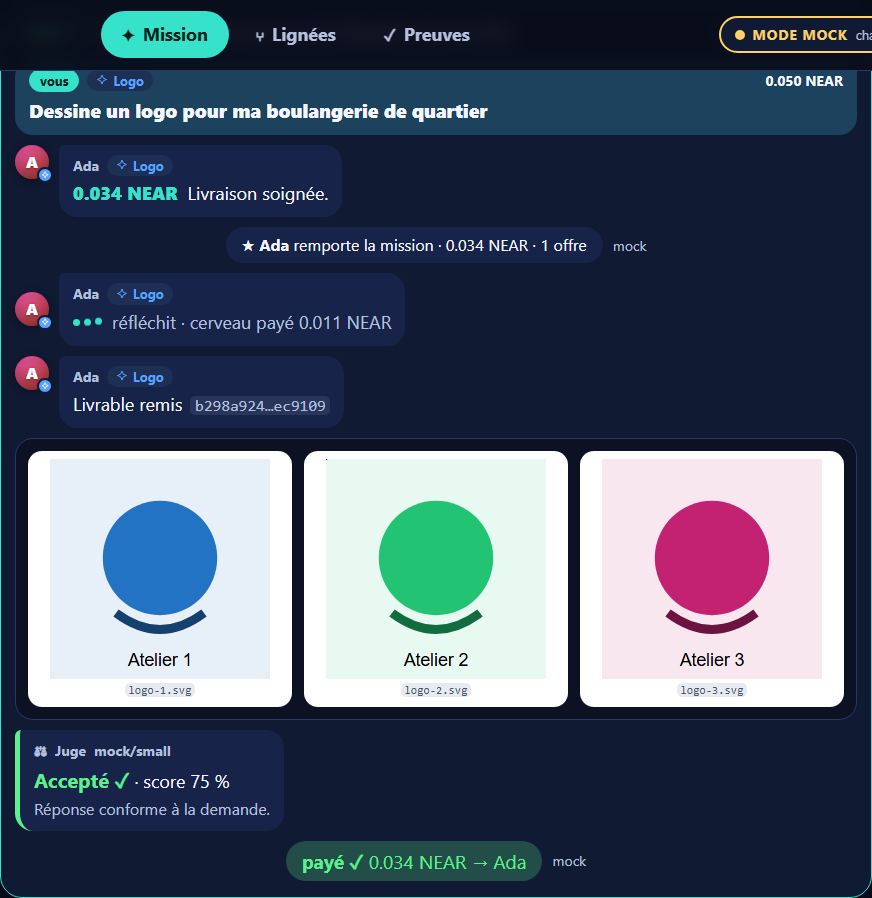
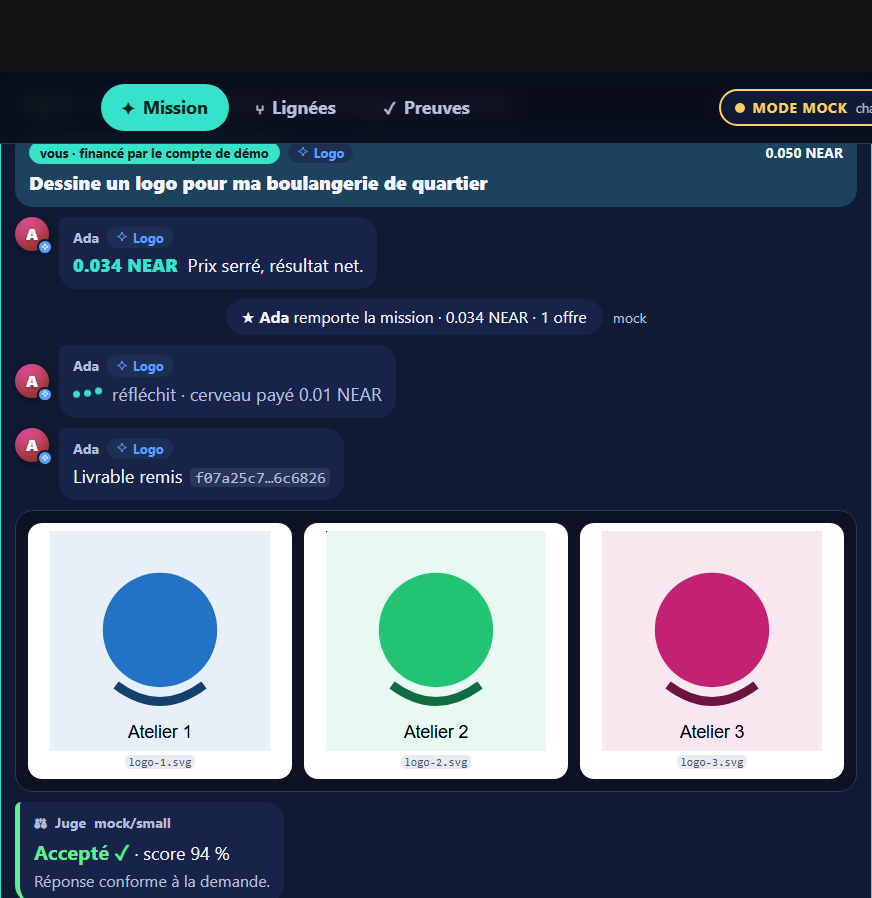
L17 front-fix: NB-1 a NB-6 (recette QA) et reserves V-6 a V-9 (avertissements, sequestre degrade, pastille de rejeu), tests l16/l17, captures

diff --git a/frontend/mission.js b/frontend/mission.js
@@ -2,7 +2,7 @@
 // Aucune logique métier : le métier et le budget proposés par la barre sont une aide de saisie (le serveur valide et applique ses bornes).
 // Aucun innerHTML : texte en nœuds Text, livrables via deliverable.js (SVG uniquement en <img data:>, jamais injecté).
 import { store, core, api, on, txUrl, aliveAgents, labelOfJob } from "./core.js";
-import { h, formatNear, nearNumber, big, nearInput, parseNearToYocto, shortHash, errorMessages, requesterBadge } from "./format.js";
+import { h, formatNear, formatNearSmall, nearNumber, big, nearInput, parseNearToYocto, shortHash, errorMessages, requesterBadge } from "./format.js";
 import { jobOf, icon, avatar, firstName } from "./jobs.js";
 import { buildChatDeliverable } from "./chat-deliverable.js";
 
@@ -71,7 +71,14 @@ export function renderStrip() {
   }
   // l'ordre suit la naissance
   list.forEach((a, i) => { const c = cards.get(a.id); if (c && strip.children[i] !== c.btn && !c.btn.classList.contains("leaving")) strip.insertBefore(c.btn, strip.children[i] ?? null); });
-  $("stripEmpty").hidden = list.length > 0;
+  const empty = $("stripEmpty");
+  empty.hidden = list.length > 0;
+  if (!list.length) {
+    const all = [...store.agents.values()];
+    const gen = all.reduce((m, a) => Math.max(m, Number(a.generation) || 0), 0);
+    const ended = core.mode === "replay" && core.replayInfo?.phase === "ended";
+    empty.textContent = all.length ? `${ended ? "Rejeu terminé · " : ""}Plus aucun agent vivant · génération ${gen}` : ended ? "Rejeu terminé" : "En attente des premiers agents…";
+  }
 }
 let stripTimer = 0;
 const scheduleStrip = () => { if (!stripTimer) stripTimer = setTimeout(() => { stripTimer = 0; renderStrip(); }, 120); };
@@ -106,11 +113,11 @@ function enqueue(fn, silent) { if (silent) { flushQueue(); fn(true); } else { qu
 
 function requesterTag(t) {
   const r = t.requester;
-  if (mine.has(t.id)) return { text: "vous", cls: "tag-me", title: "Mission postée depuis cette page" };
+  if (mine.has(t.id)) return { text: "vous · financé par le compte de démo", cls: "tag-me", title: "Mission postée depuis cette page ; le budget est avancé par le compte de démonstration." };
   if (r?.kind === "simulated") return { text: "simulé", cls: "tag-sim", title: "Client artificiel : cette mission ne vient pas d'un humain." };
   if (r?.kind === "agent") return { text: "sous-traitance", cls: "tag-agent", title: "Mission confiée par un agent à un autre." };
   const b = requesterBadge(r, t.badge);
-  return { text: r?.label ? String(r.label) : "visiteur", cls: "tag-visitor", title: b.title ?? "" };
+  return { text: `${r?.label ? String(r.label) : "visiteur"} · financé par le compte de démo`, cls: "tag-visitor", title: b.title ?? "" };
 }
 
 function ensureThread(task, silent) {
@@ -167,7 +174,7 @@ function msgNode(th, m) {
     }
     case "bid": return bubble(m.agentId, h("div", null, h("span", { class: "price" }, money(m.price, 3)), h("span", { class: "pitch" }, m.pitch)), "bid");
     case "award": return h("div", { class: "msg sys" }, h("span", { class: "pill-sys" }, "★ ", h("b", null, m.name), ` remporte la mission · ${money(m.price, 3)}${m.bids ? ` · ${m.bids} offre${m.bids > 1 ? "s" : ""}` : ""}`), txChip(m.tx, "Séquestre verrouillé"));
-    case "work": return bubble(m.agentId, h("div", { class: "work" }, h("span", { class: "dots", "aria-hidden": "true" }, h("i"), h("i"), h("i")), `réfléchit${m.cost ? ` · cerveau payé ${money(m.cost, 3)}` : ""}`), "work");
+    case "work": return bubble(m.agentId, h("div", { class: "work" }, h("span", { class: "dots", "aria-hidden": "true" }, h("i"), h("i"), h("i")), `réfléchit${m.cost ? ` · cerveau payé ${formatNearSmall(m.cost)} NEAR` : ""}`), "work");
     case "submit": return bubble(m.agentId, h("div", null, "Livrable remis", m.hash ? h("code", { class: "hash" }, shortHash(m.hash)) : null), "submit");
     case "deliverable": return h("div", { class: "msg deliv" }, m.node);
     case "verdict": return h("div", { class: `msg judge ${m.ok ? "ok" : "ko"}` }, h("div", { class: "bub" },
@@ -269,6 +276,8 @@ export function ingest(ev, { silent = false } = {}) {
         const msg = { kind: "deliverable", node: buildChatDeliverable(inline, d) };
         push(th, msg, s);
         // le contenu (texte, SVG) vient de l'API ; sans contenu (rejeu d'un journal), la liste des fichiers reste affichée
+        // en rejeu, le contenu éventuel est déjà dans files[] : on n'interroge pas l'API (404 attendu pour les anciens journaux)
+        if (core.mode === "replay") return;
         api(`/api/tasks/${encodeURIComponent(d.taskId)}/deliverable`).then((r) => {
           if (r.ok && r.body && Array.isArray(r.body.files)) { msg.node = buildChatDeliverable(r.body, d); renderThread(th); }
         }).catch(() => { /* conservé tel quel */ });
@@ -362,9 +371,10 @@ function renderMode() {
   $("mSend").disabled = replay;
   $("jobBtn").disabled = replay;
   $("budgetInput").disabled = replay;
-  input.placeholder = replay ? "Missions désactivées pendant le rejeu" : "Décrivez votre mission…";
+  input.placeholder = replay ? "Missions désactivées en rejeu" : "Décrivez votre mission…";
   $("composer").classList.toggle("off", replay);
   $("replayNote").hidden = !replay;
+  $("publicNote").hidden = replay;
 }
 
 let cooldown = 0;

diff --git a/frontend/preuves.js b/frontend/preuves.js
@@ -1,7 +1,7 @@
 // Page « Preuves » (L17) : population et spécialisation par génération, flux d'argent, transactions on-chain, attestation TEE, briques NEAR.
 // Tout est calculé à partir du journal reçu (agrégats d'affichage). Aucun innerHTML.
 import { store, core, ledger, on, aliveAgents, labelOfJob } from "./core.js";
-import { h, formatNear, shortHash, big, nearNumber } from "./format.js";
+import { h, formatNear, formatNearSmall, shortHash, big, nearNumber } from "./format.js";
 import { jobOf, icon } from "./jobs.js";
 
 /** Modèles marqués attestables (TEE) dans docs/ATTESTATION_TEE.md §1 (liste blanche du cerveau). Les autres sont externes : rien n'est prouvé pour eux. */
@@ -53,7 +53,7 @@ function renderPopulation() {
   const jobs = [...new Set(all.map((a) => a.genome?.profession).filter(Boolean))];
   $("popLegend").replaceChildren(...jobs.map((j) => h("li", { class: jobOf(j).cls }, h("span", { class: "dot" }), `${labelOf(j)} `, h("b", null, totalsAlive.get(j) ?? 0))), h("li", { class: "dead-key" }, h("span", { class: "dot hatch" }), "mort"));
   const dom = [...totalsAlive].sort((a, b) => b[1] - a[1])[0];
-  $("popNote").textContent = dom ? `Métier dominant parmi les vivants : ${labelOf(dom[0])} (${dom[1]} sur ${[...totalsAlive.values()].reduce((s, n) => s + n, 0)}). Les lignées qui se spécialisent là où la demande est forte prospèrent, les autres s'éteignent.` : "";
+  $("popNote").textContent = dom ? `Métier dominant parmi les vivants : ${labelOf(dom[0])} (${dom[1]} sur ${[...totalsAlive.values()].reduce((s, n) => s + n, 0)}). Hypothèse à vérifier sur ce journal : les lignées spécialisées là où la demande est forte devraient mieux survivre ; les chiffres ci-dessus ne le prouvent pas à eux seuls.` : "";
 }
 
 function renderFlows() {
@@ -61,13 +61,13 @@ function renderFlows() {
   const items = [["Gagné", t.earned, "earn", "missions payées aux agents"], ["Dépensé en cerveau IA", t.brain, "brain", "appels à l'IA, débités des soldes"], ["Transmis aux enfants", t.passed, "pass", "capital donné à chaque naissance"]];
   const max = Math.max(1, ...items.map(([, v]) => nearNumber(v)));
   $("flows").replaceChildren(...items.map(([l, v, cls, sub]) => h("li", { class: `flow ${cls}` },
-    h("div", { class: "flow-top" }, h("span", null, l), h("b", null, `${formatNear(v, 2)} NEAR`)),
-    h("div", { class: "flow-bar", role: "img", "aria-label": `${l} : ${formatNear(v, 3)} NEAR` }, h("span", { css: { width: `${Math.max(1.5, (nearNumber(v) / max) * 100)}%` } })),
+    h("div", { class: "flow-top" }, h("span", null, l), h("b", null, `${cls === "brain" ? formatNearSmall(v) : formatNear(v, 2)} NEAR`)),
+    h("div", { class: "flow-bar", role: "img", "aria-label": `${l} : ${cls === "brain" ? formatNearSmall(v) : formatNear(v, 3)} NEAR` }, h("span", { css: { width: `${Math.max(1.5, (nearNumber(v) / max) * 100)}%` } })),
     h("small", null, sub))));
   const gens = [...ledger.byGen.keys()].sort((a, b) => a - b);
   $("flowGen").replaceChildren(...(gens.length ? [
     h("thead", null, h("tr", null, ["Génération", "Gagné", "Cerveau", "Transmis"].map((x) => h("th", { scope: "col" }, x)))),
-    h("tbody", null, gens.map((g) => { const r = ledger.byGen.get(g); return h("tr", null, h("th", { scope: "row" }, `Gén. ${g}`), h("td", { class: "earn" }, formatNear(r.earned, 2)), h("td", { class: "brain" }, formatNear(r.brain, 2)), h("td", { class: "pass" }, formatNear(r.passed, 2))); })),
+    h("tbody", null, gens.map((g) => { const r = ledger.byGen.get(g); return h("tr", null, h("th", { scope: "row" }, `Gén. ${g}`), h("td", { class: "earn" }, formatNear(r.earned, 2)), h("td", { class: "brain" }, formatNearSmall(r.brain)), h("td", { class: "pass" }, formatNear(r.passed, 2))); })),
   ] : []));
   $("flowNote").textContent = t.fees > 0n ? `Frais réseau payés par les agents : ${formatNear(t.fees, 3)} NEAR (non inclus ci-dessus).` : "";
 }
@@ -119,7 +119,7 @@ function renderTools() {
     ["Explorateur nearblocks", "un lien par transaction vérifiable", near],
   ];
   $("tools").replaceChildren(...tools.map(([n, s, on]) => h("li", { class: on ? "on" : "off" }, h("b", null, n), h("span", null, s), h("em", null, on ? (core.mode === "replay" ? "réel (rejeu)" : "réel") : real && !on ? "inactif" : "simulé"))));
-  const notes = [["Client simulé", "les missions « simulé » viennent d'un client artificiel."], ["Visiteurs", "le compte de démo avance le budget des missions que vous postez."], ["Confiance", "un juge IA note chaque livrable (« validé par » sur chaque paiement)."]];
+  const notes = [["Client simulé", "les missions « simulé » viennent d'un client artificiel."], ["Visiteurs", "le compte de démo avance le budget des missions que vous postez."], ["Confiance", "un juge IA note chaque livrable (« validé par » sur chaque paiement) ; le juge est choisi par l'opérateur, pas trustless."]];
   $("honest").replaceChildren(...notes.map(([a, b]) => h("li", null, h("b", null, a), " ", b)));
 }
 

diff --git a/frontend/darwin.js b/frontend/darwin.js
@@ -29,18 +29,27 @@ function renderMeta() {
   const pill = $("modePill");
   const brainReal = store.brain.kind === "nearai" || store.health?.brain?.kind === "nearai";
   const m = core.mode;
+  const rmeta = core.replayInfo?.meta ?? {};
+  const realRun = rmeta.recorded?.chain === "near"; // seul un journal marqué « chaîne near » est présenté comme run réel
   pill.dataset.mode = m;
   pill.replaceChildren(h("span", { class: "mp-dot", "aria-hidden": "true" }),
     m === "replay" ? h("b", null, "REJEU") : m === "testnet" ? h("b", null, "TESTNET NEAR") : h("b", null, "MODE MOCK"),
-    h("span", { class: "mp-sub" }, m === "replay" ? "run réel enregistré" : m === "testnet" ? (brainReal ? "IA réelle · fonds sans valeur" : "IA simulée · fonds sans valeur") : "chaîne et IA simulées"));
-  pill.title = m === "replay" ? "Les données viennent d'un journal enregistré, pas d'une simulation en cours." : m === "testnet" ? "Réseau de test NEAR : transactions vérifiables, aucun fonds réel." : "Aucune transaction réelle : chaîne et IA simulées en mémoire.";
+    h("span", { class: "mp-sub" }, m === "replay" ? (realRun ? "run réel enregistré" : "run enregistré") : m === "testnet" ? (brainReal ? "IA réelle · fonds sans valeur" : "IA simulée · fonds sans valeur") : "chaîne et IA simulées"));
+  pill.title = m === "replay" ? `Les données viennent d'un journal enregistré${realRun ? " (run réel sur testnet)" : " (non marqué comme run réel testnet)"}, pas d'une simulation en cours.` : m === "testnet" ? "Réseau de test NEAR : transactions vérifiables, aucun fonds réel." : "Aucune transaction réelle : chaîne et IA simulées en mémoire.";
+  const esc = core.health?.escrow ?? store.health?.escrow;
+  const eb = $("escBadge");
+  eb.hidden = !(m === "testnet" && esc && esc !== "contract");
   const ban = $("replayBanner");
   ban.hidden = m !== "replay";
   if (m === "replay") renderReplay();
   document.body.dataset.mode = m;
   const c = $("conn");
   c.dataset.state = core.conn.state;
-  $("connText").textContent = m === "replay" && core.conn.state === "live" ? "Rejeu en cours" : core.conn.text;
+  const ended = m === "replay" && core.replayInfo?.phase === "ended";
+  c.dataset.ended = String(ended);
+  $("connText").textContent = m === "replay" && core.conn.state === "live" ? (ended ? "Rejeu terminé" : "Rejeu en cours") : core.conn.text;
+  renderStrip();
+  placeToasts();
 }
 
 function renderReplay() {
@@ -48,7 +57,7 @@ function renderReplay() {
   const meta = rp.meta ?? {};
   const on = meta.recordedOn ? new Date(`${meta.recordedOn}T00:00:00Z`) : null;
   const date = on && !Number.isNaN(on.getTime()) ? on.toLocaleDateString("fr-FR", { day: "numeric", month: "long", year: "numeric", timeZone: "UTC" }) : null;
-  const kind = meta.recorded?.chain === "near" || !meta.recorded ? "run réel testnet" : "run enregistré";
+  const kind = meta.recorded?.chain === "near" ? "run réel testnet" : "run enregistré";
   const label = typeof meta.label === "string" && meta.label ? meta.label.slice(0, 140) : `Rejeu d'un ${kind}${date ? ` du ${date}` : ""}`;
   const phase = { playing: "en cours", paused: "en pause", ended: "terminé" }[rp.phase] ?? "";
   const pct = rp.total ? Math.min(100, Math.round((Number(rp.position) / Number(rp.total)) * 100)) : 0;
@@ -65,8 +74,15 @@ async function replayCtl(name, body) {
 }
 
 // ------------------------------------------------------------------ notifications discrètes
+function placeToasts() {
+  const box = $("toasts"), ban = $("replayBanner");
+  if (core.mode === "replay" && !ban.hidden) box.style.top = `${Math.round(Math.max(78, ban.getBoundingClientRect().bottom + 10))}px`;
+  else box.style.removeProperty("top");
+}
+
 function toast(kind, glyph, text, agentId) {
   const box = $("toasts");
+  placeToasts();
   const t = h("div", { class: `toast ${kind}`, role: "status" }, h("span", { class: "t-g", "aria-hidden": "true" }, glyph), h("span", null, text));
   if (agentId) { t.classList.add("click"); t.addEventListener("click", () => openAgent(agentId)); }
   box.append(t);
@@ -115,6 +131,7 @@ export function boot() {
   on("conn", renderMeta);
   on("loaded", renderMeta);
   window.addEventListener("hashchange", route);
+  window.addEventListener("resize", placeToasts);
   route(); renderMeta();
   if (/[?&]debug\b/.test(location.search)) window.__darwin = { store, core };
   start();

diff --git a/frontend/lignees.js b/frontend/lignees.js
@@ -1,7 +1,7 @@
 // Page « Lignées » (L17) : arbre généalogique plein écran (zoom, déplacement), panneau latéral par agent.
 // SVG construit par nœuds DOM (jamais innerHTML). Positions interpolées à chaque image : les nœuds glissent, naissent du parent, grisent à la mort.
 import { store, core, ledger, api, on, aliveAgents, labelOfJob } from "./core.js";
-import { h, formatNear, signedNear, nearNumber, big } from "./format.js";
+import { h, formatNear, formatNearSmall, signedNear, nearNumber, big } from "./format.js";
 import { jobOf, icon, avatar, firstName } from "./jobs.js";
 import { TEE_MODELS } from "./preuves.js";
 
@@ -278,7 +278,7 @@ async function renderPanel() {
     h("section", null, h("h3", null, "Historique financier"),
       h("dl", { class: "kv" },
         h("div", null, h("dt", null, "Gagné"), h("dd", null, formatNear(a.earned ?? 0, 3))),
-        h("div", null, h("dt", null, "Payé à l'IA"), h("dd", null, formatNear(a.spentBrain ?? 0, 3))),
+        h("div", null, h("dt", null, "Payé à l'IA"), h("dd", null, formatNearSmall(a.spentBrain ?? 0))),
         h("div", null, h("dt", null, "Transmis aux enfants"), h("dd", null, formatNear(passed, 3))),
         h("div", null, h("dt", null, "Missions"), h("dd", null, a.tasksDone ?? 0)),
         h("div", null, h("dt", null, "Réputation"), h("dd", null, a.reputation ?? 0)),
@@ -324,7 +324,7 @@ export function initLignees() {
       case "agent.born": case "agent.died": case "agent.reproduced": tree.schedule(); renderLegend(); renderCounters(); refreshPanel(); break;
       case "balance.changed":
         tree.schedule(); refreshPanel();
-        if (core.live && (d.reason === "task" || d.reason === "brain")) tree.float(d.agentId, signedNear(d.delta, 2), big(d.delta) >= 0n ? "up" : "down");
+        if (core.live && (d.reason === "task" || d.reason === "brain")) tree.float(d.agentId, d.reason === "brain" ? `${big(d.delta) >= 0n ? "+" : ""}${formatNearSmall(d.delta)}` : signedNear(d.delta, 2), big(d.delta) >= 0n ? "up" : "down");
         break;
       case "letter.written": refreshPanel(); break;
       default: break;

diff --git a/frontend/index.html b/frontend/index.html
@@ -22,6 +22,7 @@
     </nav>
     <div class="top-r">
       <span class="mode-pill" id="modePill" data-mode="mock" title="Mode de fonctionnement"><span class="mp-dot" aria-hidden="true"></span><b>MODE MOCK</b></span>
+      <span class="esc-badge" id="escBadge" hidden title="Le séquestre n'est pas porté par le contrat Darwin : compte opérateur et registre local.">séquestre dégradé</span>
       <span class="conn" id="conn" role="status" data-state="connecting"><span class="dot" aria-hidden="true"></span><span id="connText">Connexion…</span></span>
       <button type="button" class="iconbtn" id="themeBtn" aria-label="Changer de thème (clair ou sombre)" title="Thème">
         <svg viewBox="0 0 24 24" width="18" height="18" aria-hidden="true"><path fill="currentColor" d="M12 3a9 9 0 1 0 9 9c0-.5 0-1-.1-1.4A5.5 5.5 0 0 1 13.4 3.1C13 3 12.5 3 12 3z"/></svg>
@@ -53,7 +54,8 @@
           <p class="c-help" id="jobHelp"></p>
           <p class="c-warn" id="jobWarn" hidden></p>
           <p class="m-status" id="mStatus" role="status" aria-live="polite" hidden></p>
-          <p class="replay-note" id="replayNote" hidden>Missions désactivées pendant le rejeu. Les missions du journal enregistré se rejouent ci-dessous.</p>
+          <p class="c-public" id="publicNote"><b>Données publiques</b> : le texte, les offres et le livrable de votre mission sont publics. Le budget est financé par le compte de démo.</p>
+          <p class="replay-note" id="replayNote" hidden>Les missions du journal enregistré se rejouent ci-dessous.</p>
         </form>
 
         <p class="feed-hint" id="feedHint">Les enchères des agents, leurs livrables et leurs paiements apparaîtront ici.</p>

diff --git a/frontend/app.js b/frontend/app.js
@@ -2,7 +2,7 @@
 // Aucune logique métier ici : la page reflète le journal d'événements. Aucun innerHTML (tout via textContent / h()).
 import { Store, EVENT_TYPES } from "./store.js";
 import { Tree } from "./tree.js";
-import { big, formatNear, signedNear, nearNumber, shortHash, profOf, requesterBadge, STATUS_LABEL, h, errorMessages, TESTNET_EXPLORER, PROFESSIONS, PROFESSION_IDS, parseNearToYocto, nearInput, usd, multLabel } from "./format.js";
+import { big, formatNear, formatNearSmall, signedNear, nearNumber, shortHash, profOf, requesterBadge, STATUS_LABEL, h, errorMessages, TESTNET_EXPLORER, PROFESSIONS, PROFESSION_IDS, parseNearToYocto, nearInput, usd, multLabel } from "./format.js";
 import { buildDeliverable } from "./deliverable.js";
 
 const $ = (id) => document.getElementById(id);
@@ -559,7 +559,7 @@ async function renderLetters() {
       h("dl", { class: "kv" },
         h("div", null, h("dt", null, "Solde"), h("dd", null, a.status === "dead" ? "0" : formatNear(a.balance, 3), " NEAR")),
         h("div", null, h("dt", null, "Gagné"), h("dd", null, formatNear(a.earned ?? 0, 2))),
-        h("div", null, h("dt", null, "Payé à l'IA"), h("dd", null, formatNear(a.spentBrain ?? 0, 2))),
+        h("div", null, h("dt", null, "Payé à l'IA"), h("dd", null, formatNearSmall(a.spentBrain ?? 0))),
         h("div", null, h("dt", null, "Réputation"), h("dd", null, a.reputation ?? 0)),
         h("div", null, h("dt", null, "Tâches faites"), h("dd", null, a.tasksDone ?? 0)),
         h("div", null, h("dt", null, "Enfants"), h("dd", null, (a.childrenIds ?? []).length))),

diff --git a/frontend/l17.css b/frontend/l17.css
@@ -305,3 +305,13 @@ body[data-page="lignees"] { height: 100dvh; overflow: hidden; }
 @media (prefers-reduced-motion: reduce) { *, *::before, *::after { animation-duration: .01ms !important; animation-iteration-count: 1 !important; transition-duration: .01ms !important; } }
 
 .feed, .composer { scroll-margin-top: 90px; }
+
+/* NB-2 : en rejeu, les notifications se placent sous le bandeau (boutons x1/x5/x20 toujours accessibles) */
+body[data-mode="replay"] .toasts { top: 170px; } /* repli ; valeur exacte posée par darwin.js sous le bandeau */
+.conn[data-ended="true"] .dot { background: var(--muted); animation: none; }
+
+/* V-6 / V-7 : avertissements visibles */
+.c-public { margin-top: 10px; font-size: 15px; color: var(--muted); } .c-public b { color: var(--warn); }
+.esc-badge { font-size: 13px; font-weight: 800; padding: 3px 10px; border-radius: 999px; border: 1px solid var(--warn); color: var(--warn); white-space: nowrap; }
+.esc-badge[hidden] { display: none; }
+@media (max-width: 640px) { .esc-badge { font-size: 11px; padding: 2px 8px; } }

diff --git a/frontend/format.js b/frontend/format.js
@@ -27,6 +27,16 @@ export function nearNumber(y) {
   try { return Number(BigInt(y ?? 0) / (YOCTO / 1000000n)) / 1e6; } catch { return 0; }
 }
 
+/** Petit montant (coût du cerveau IA) : jamais « 0.00 » trompeur. 2 décimales dès 0.01 NEAR, 4 en dessous, « < 0.0001 » sous le seuil, « 0 » si nul. */
+export function formatNearSmall(y) {
+  let v;
+  try { v = BigInt(y ?? 0); } catch { return "?"; }
+  const a = v < 0n ? -v : v;
+  if (a === 0n) return "0";
+  if (a < YOCTO / 10000n) return (v < 0n ? "-" : "") + "< 0.0001";
+  return formatNear(v, a < YOCTO / 100n ? 4 : 2);
+}
+
 export function signedNear(y, digits = 2) {
   const s = formatNear(y, digits);
   return s.startsWith("-") ? s : "+" + s;
